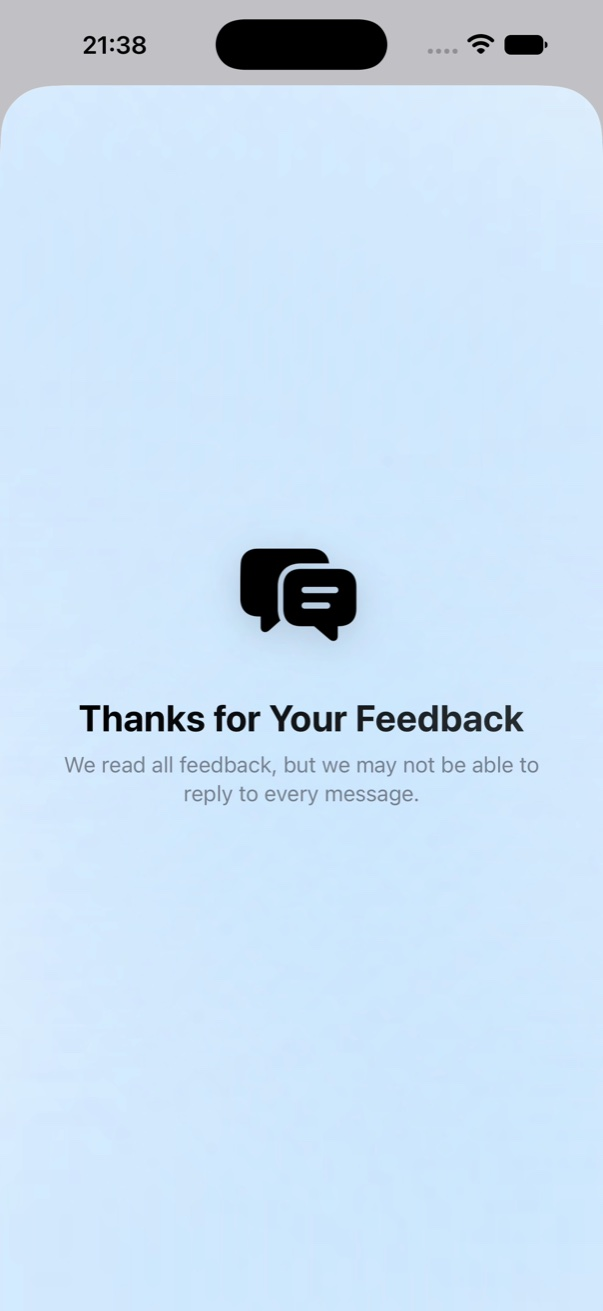
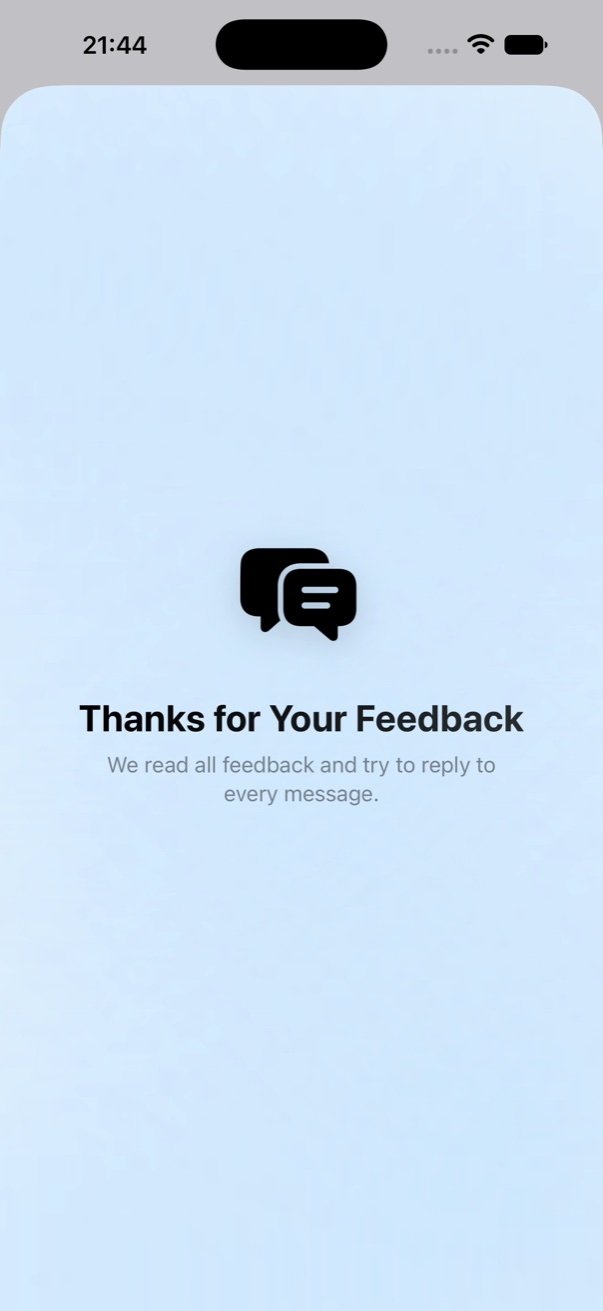
docs: release 1.1.0 and say we try to reply
The thank-you screen ships as a minor version rather than 2.0: the only apps
using the kit move together.

Changed region(s): [[0.1194, 0.5797, 0.8955, 0.6102], [0.1791, 0.0305, 0.2388, 0.061]]

diff --git a/Demo/FeedbackKitDemo/FeedbackKitDemoApp.swift b/Demo/FeedbackKitDemo/FeedbackKitDemoApp.swift
@@ -97,7 +97,7 @@ func feedbackText(_ string: FeedbackString) -> String {
         String(localized: "Your app version, system version, device model and language are sent with your message.")
     case .thanks: String(localized: "Thanks for Your Feedback")
     case .thanksRead: String(localized: "We read all feedback.")
-    case .thanksMayReply: String(localized: "We read all feedback, but we may not be able to reply to every message.")
+    case .thanksMayReply: String(localized: "We read all feedback and try to reply to every message.")
     case .unsupported: String(localized: "This device can’t send feedback.")
     case .emailLabel: String(localized: "Email")
     case .emailPlaceholder: String(localized: "Email (Optional)")

diff --git a/README.md b/README.md
@@ -21,7 +21,7 @@ No dependencies.
 </p>
 <p>
   <img src="Docs/Media/feedbackkit-iphone-light-sending.jpg" width="200" alt="While sending, the Send button shows a spinner.">
-  <img src="Docs/Media/feedbackkit-iphone-light-thanks.jpg" width="200" alt="After sending, a thank-you screen: the app icon over a soft coloured backdrop, Thanks for Your Feedback, and We read all feedback, but we may not be able to reply to every message.">
+  <img src="Docs/Media/feedbackkit-iphone-light-thanks.jpg" width="200" alt="After sending, a thank-you screen: the app icon over a soft coloured backdrop, Thanks for Your Feedback, and We read all feedback and try to reply to every message.">
   <img src="Docs/Media/feedbackkit-iphone-light-failed.jpg" width="200" alt="A failed send: the alert Couldn’t Send Feedback, Something went wrong. Try again in a moment., with Cancel and Try Again.">
 </p>
 
@@ -59,7 +59,7 @@ plainly and disables Send.
 ## Installation
 
 ```swift
-.package(url: "https://github.com/hksw-io/feedbackkit.git", from: "1.0.0")
+.package(url: "https://github.com/hksw-io/feedbackkit.git", from: "1.1.0")
 ```
 
 Or in Xcode: **File > Add Package Dependencies**, enter the URL above, and choose **Up to Next Major Version** from `1.0.0`.
@@ -130,7 +130,7 @@ func feedbackText(_ string: FeedbackString) -> String {
         String(localized: "Your app version, system version, device model and language are sent with your message.")
     case .thanks: String(localized: "Thanks for Your Feedback")
     case .thanksRead: String(localized: "We read all feedback.")
-    case .thanksMayReply: String(localized: "We read all feedback, but we may not be able to reply to every message.")
+    case .thanksMayReply: String(localized: "We read all feedback and try to reply to every message.")
     case .unsupported: String(localized: "This device can’t send feedback.")
     case .emailLabel: String(localized: "Email")
     case .emailPlaceholder: String(localized: "Email (Optional)")

diff --git a/CHANGELOG.md b/CHANGELOG.md
@@ -6,25 +6,13 @@ All notable changes to FeedbackKit are recorded here. The format follows
 
 ## [Unreleased]
 
-## [2.0.2] - 2026-10-31
-
-### Removed
-
-- The thank-you screen's glow behind the icon. The icon keeps its soft neutral shadow.
-
-## [2.0.1] - 2026-10-31
+## [1.1.0] - 2026-10-31
 
 ### Changed
 
-- The thank-you screen's glow behind the icon is about half as strong, and the icon's shadow is a soft neutral one rather than tinted.
-
-## [2.0.0] - 2026-10-31
-
-### Changed
-
-- **Breaking:** a successful send now ends on a thank-you screen, in the manner of PaywallKit's: the form fades to the app icon over a drifting backdrop, then the thanks land under it. It stays about 5 seconds, or until tapped, in place of the 1.5 s hold and footer line.
-- **Breaking:** `FeedbackView`'s initializers take the `icon` the screen shows.
-- **Breaking:** `FeedbackString` has `.thanksRead`, for someone who left no address, and `.thanksMayReply`, for someone who did. `.thanks` is now the screen's title rather than a footer line, so give it copy to match.
+- A successful send now ends on a thank-you screen, in the manner of PaywallKit's: the form fades to the app icon over a drifting backdrop, then the thanks land under it. It stays about 5 seconds, or until tapped, in place of the 1.5 s hold and footer line.
+- `FeedbackView`'s initializers take the `icon` the screen shows. An app updating from 1.0 has to pass one.
+- `FeedbackString` has `.thanksRead`, for someone who left no address, and `.thanksMayReply`, for someone who did. An app updating from 1.0 has to add both to its `switch`. `.thanks` is now the screen's title rather than a footer line, so give it copy to match.
 - On iOS the email field no longer turns autocorrection off, which took the keyboard's suggestion bar and AutoFill's address with it.
 
 ## [1.0.1] - 2026-10-25
